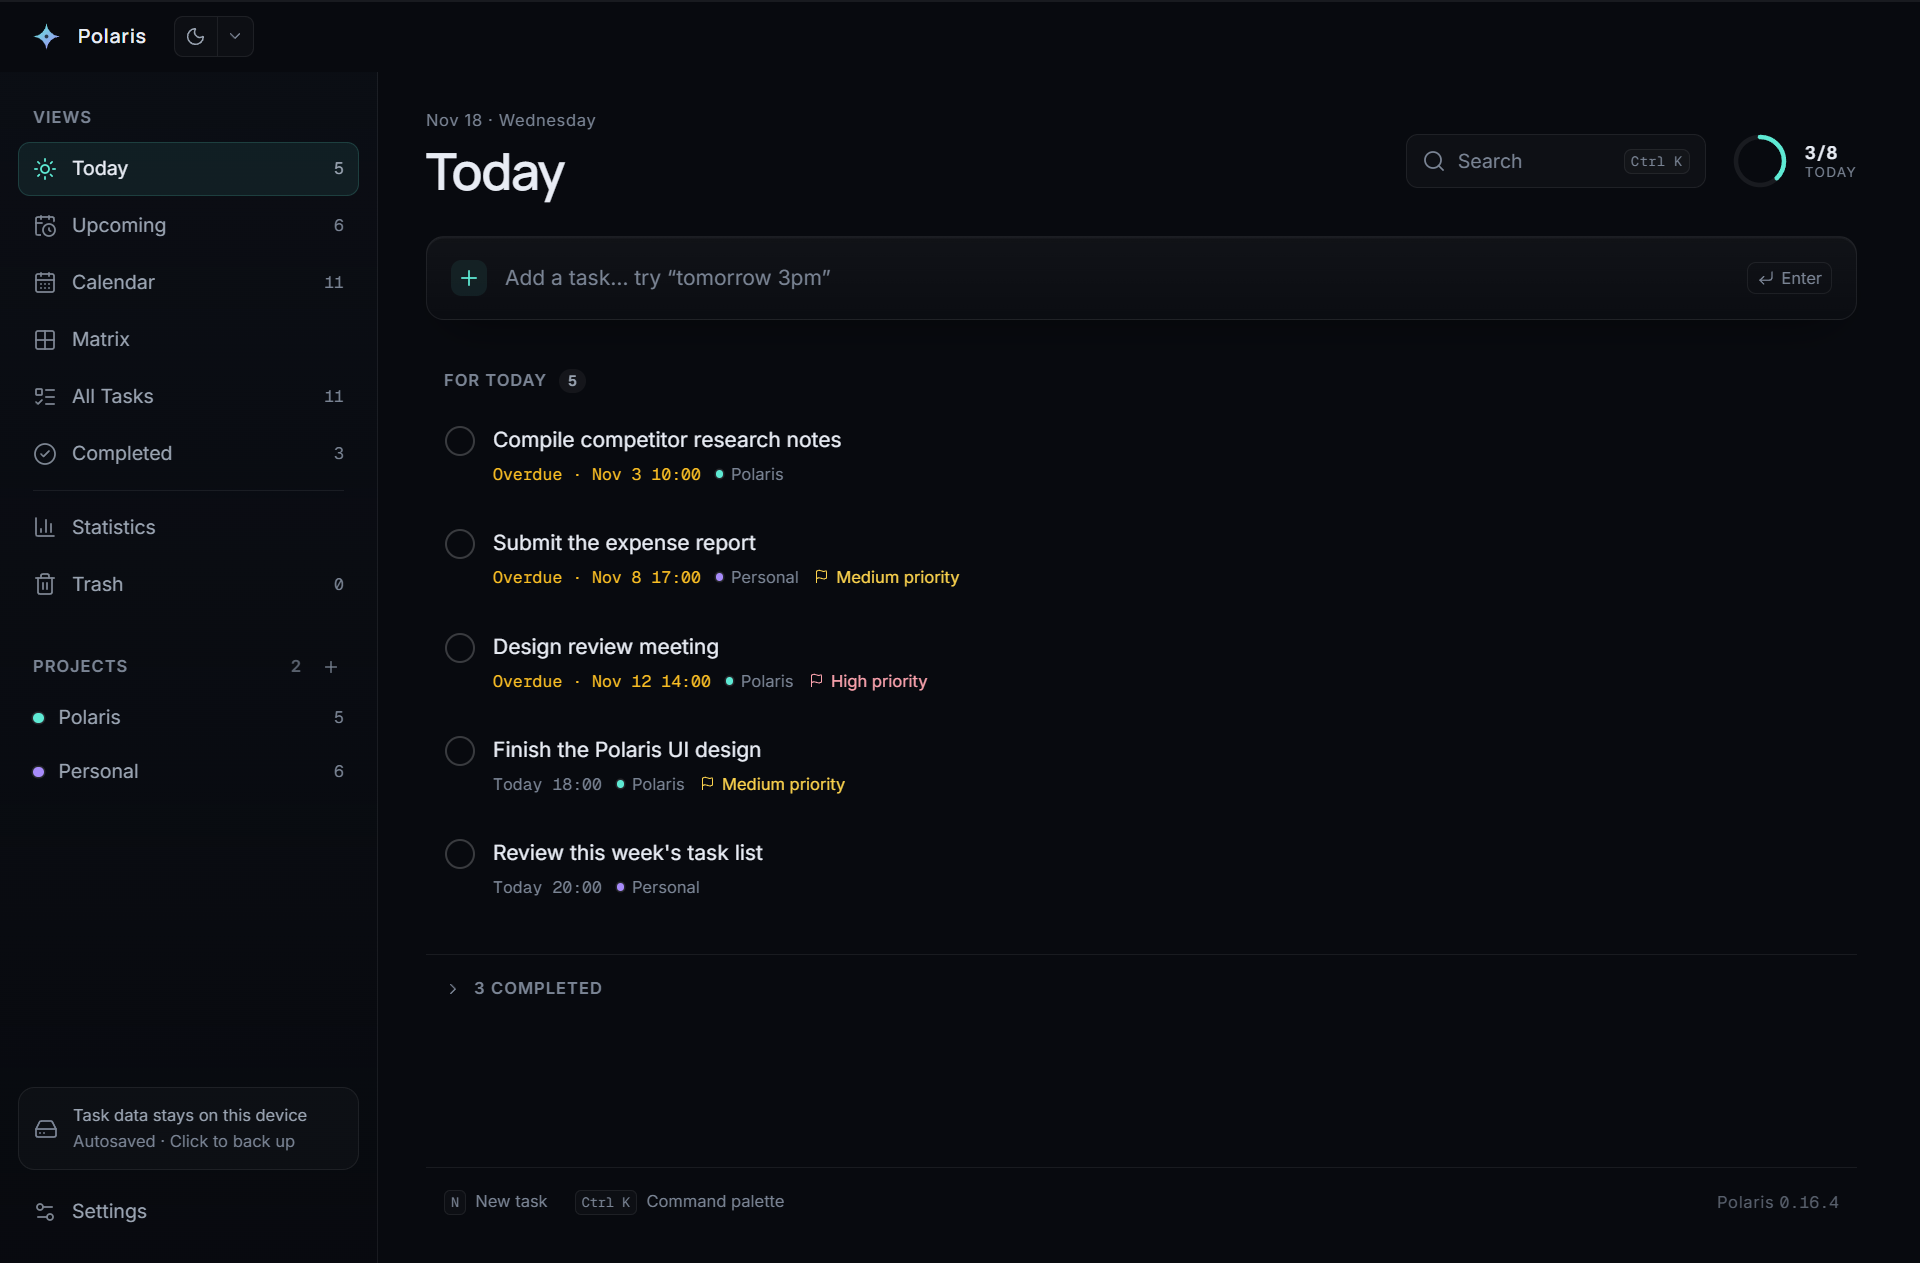
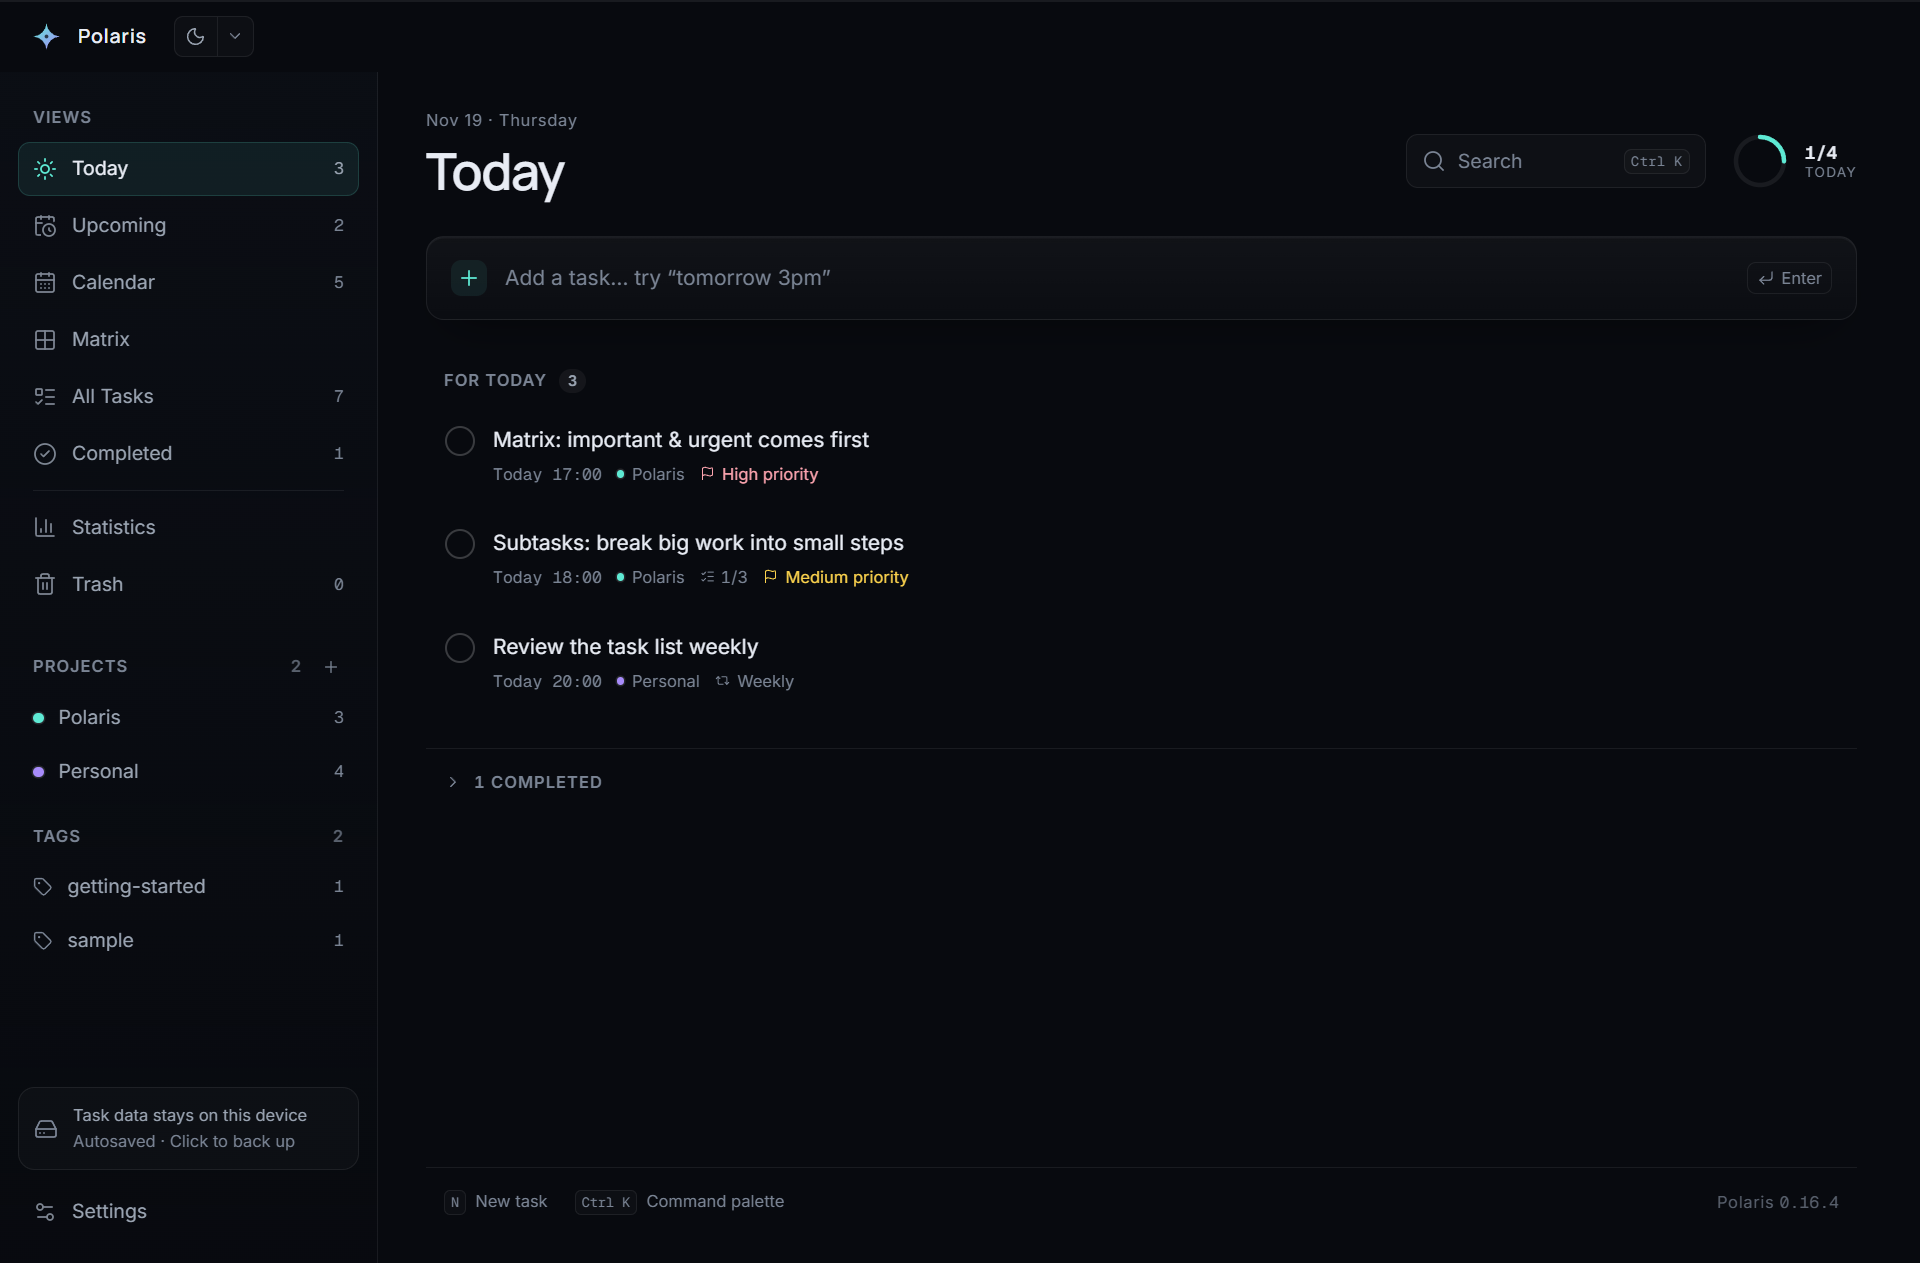
中英 27 张归档截图重截：画面换八条教学示例种子
隔离 profile 逐模式首启 + CDP 虚拟视口 1920×1263，中文 9 模式英文 8 模式
全 exit 0，语言证据日志 zh-CN/今天 与 en/Today 全中；27 张尺寸新鲜度
逐张核验，目视抽查中文主界面/英文主界面/四象限三张：今日三条、标签
入门示例、子任务 1/3 进度、象限分布 do2/plan1/quick1/later3 与落库探针
逐字一致。capture.ts 象限注释六条同步八条。

diff --git a/src/main/harness/capture.ts b/src/main/harness/capture.ts
@@ -515,7 +515,7 @@ export async function captureDemo(mode: string): Promise<void> {
     } else if (mode === 'calendar') {
       await captureCalendarScreenshot('screenshot-calendar.png')
     } else if (mode === 'matrix' || mode === 'stats') {
-      // 四象限与统计直接用首启示例数据：六条任务恰好落满四个象限，
+      // 四象限与统计直接用首启示例数据：八条教学示例恰好落满四个象限，
       // 统计有今日完成与项目分布，不需要额外种子。
       const labels = mode === 'matrix' ? ['四象限', 'Matrix'] : ['统计', 'Statistics']
       await mainWindow.webContents.executeJavaScript(
